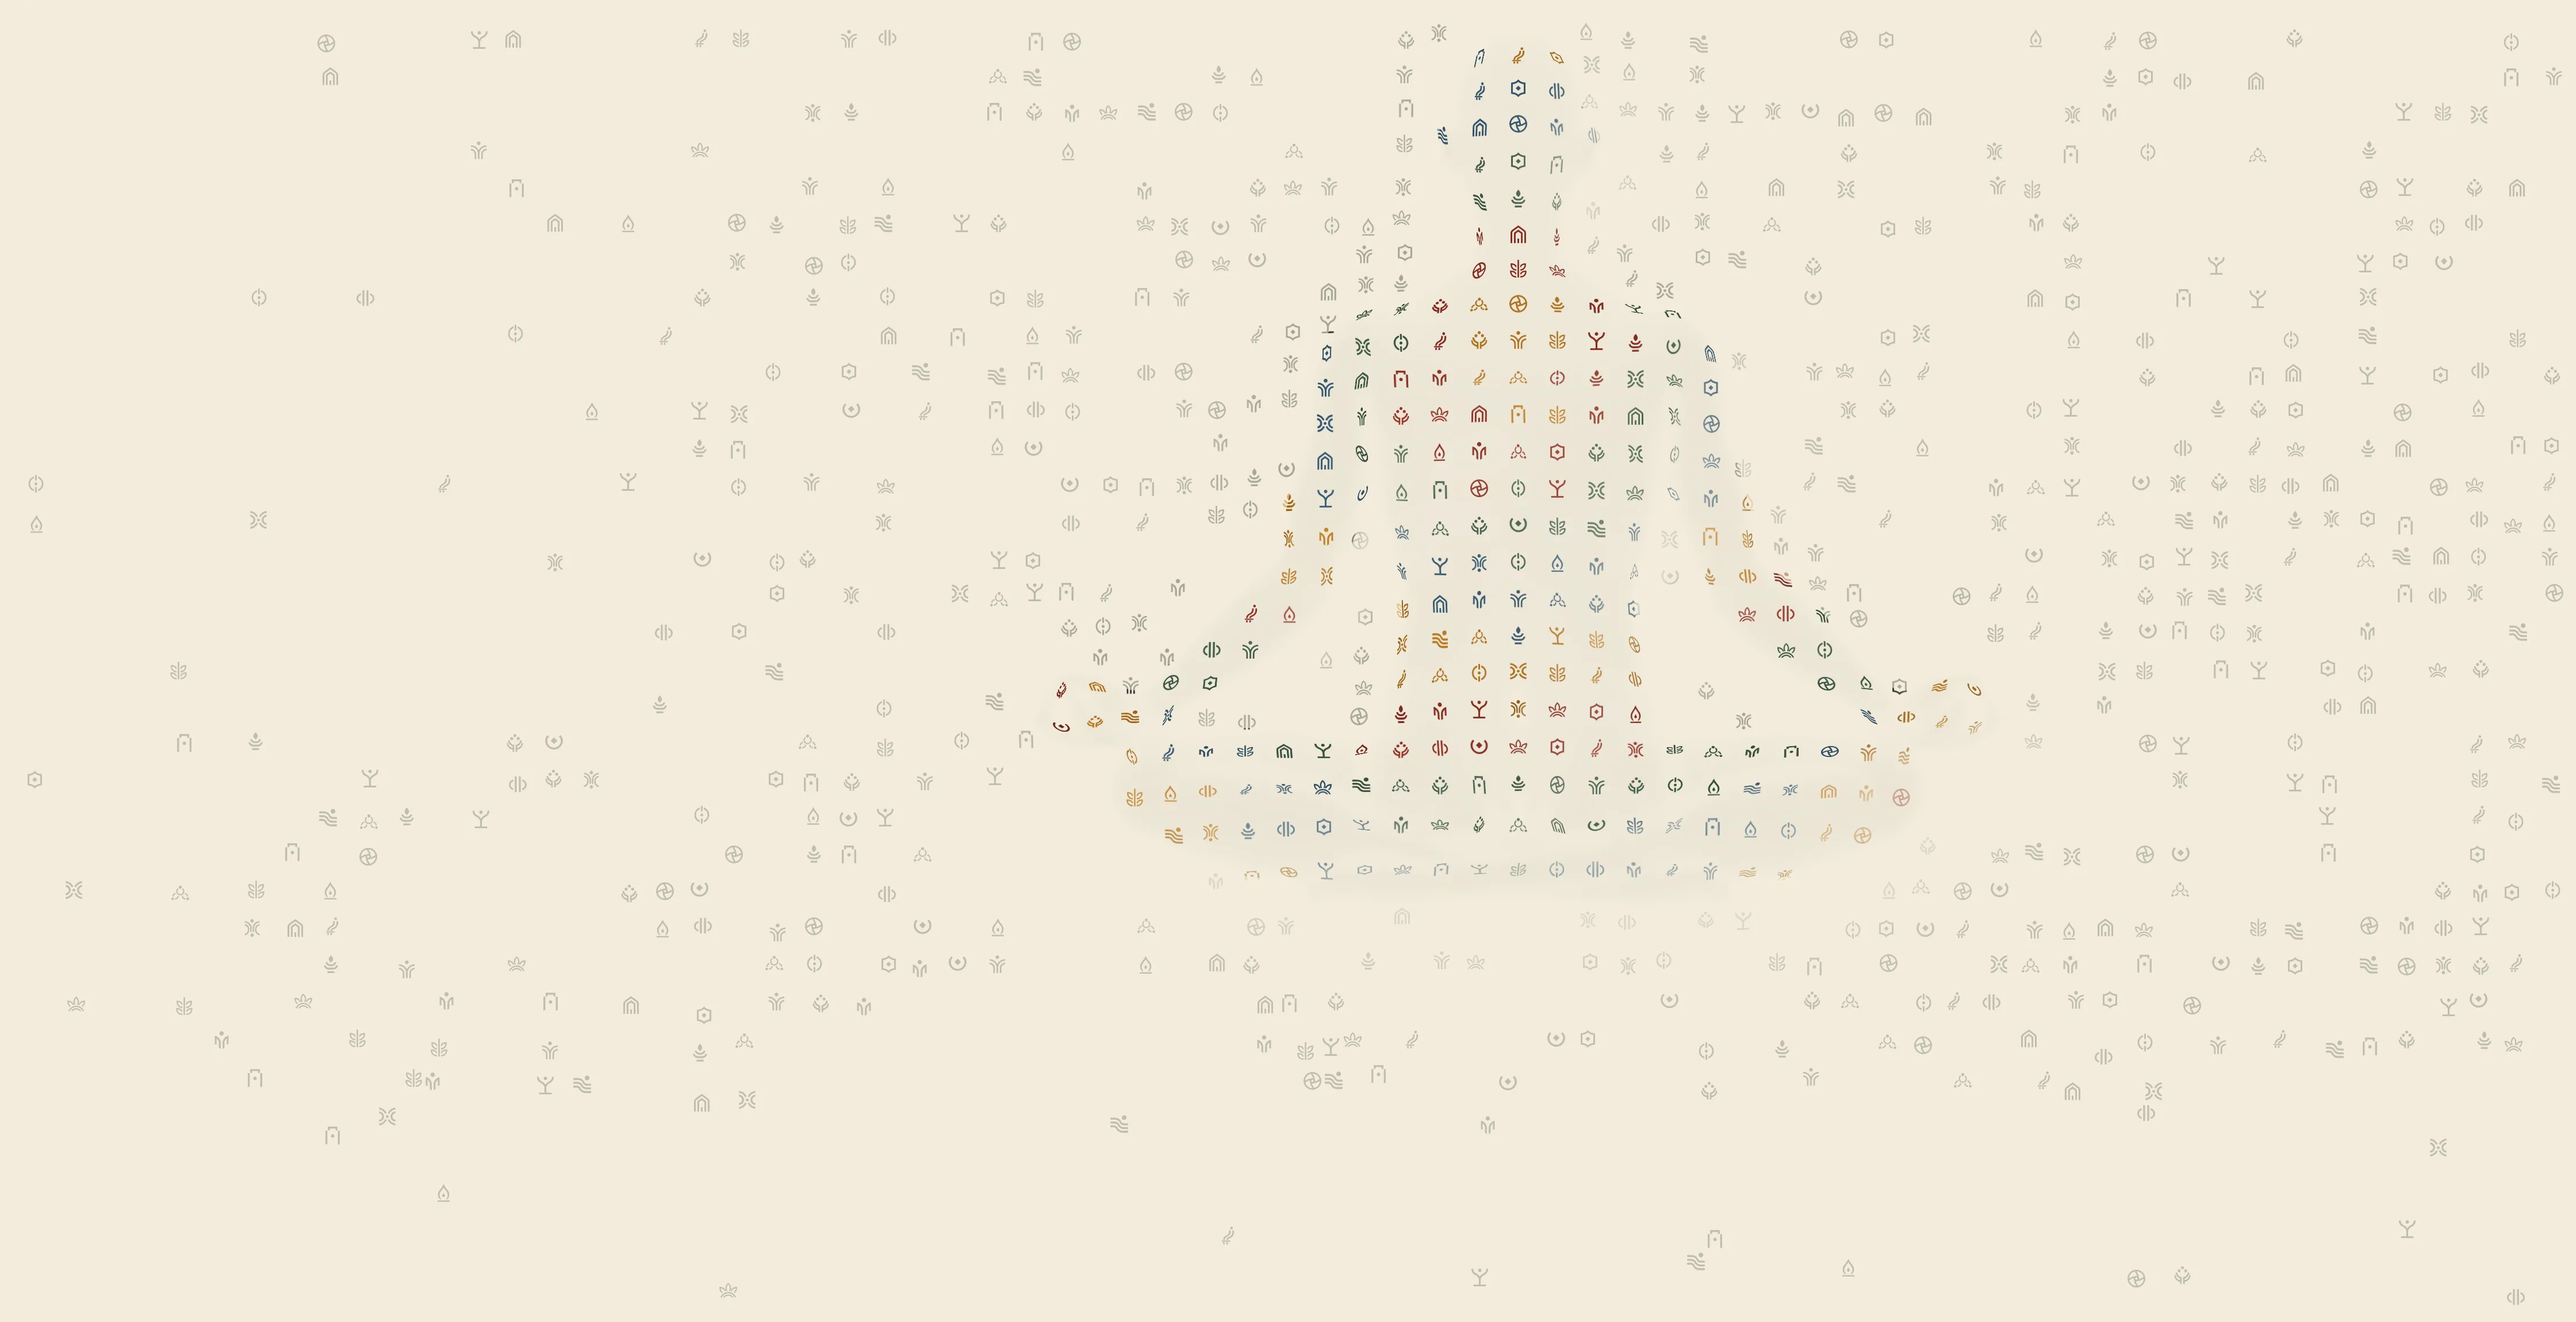
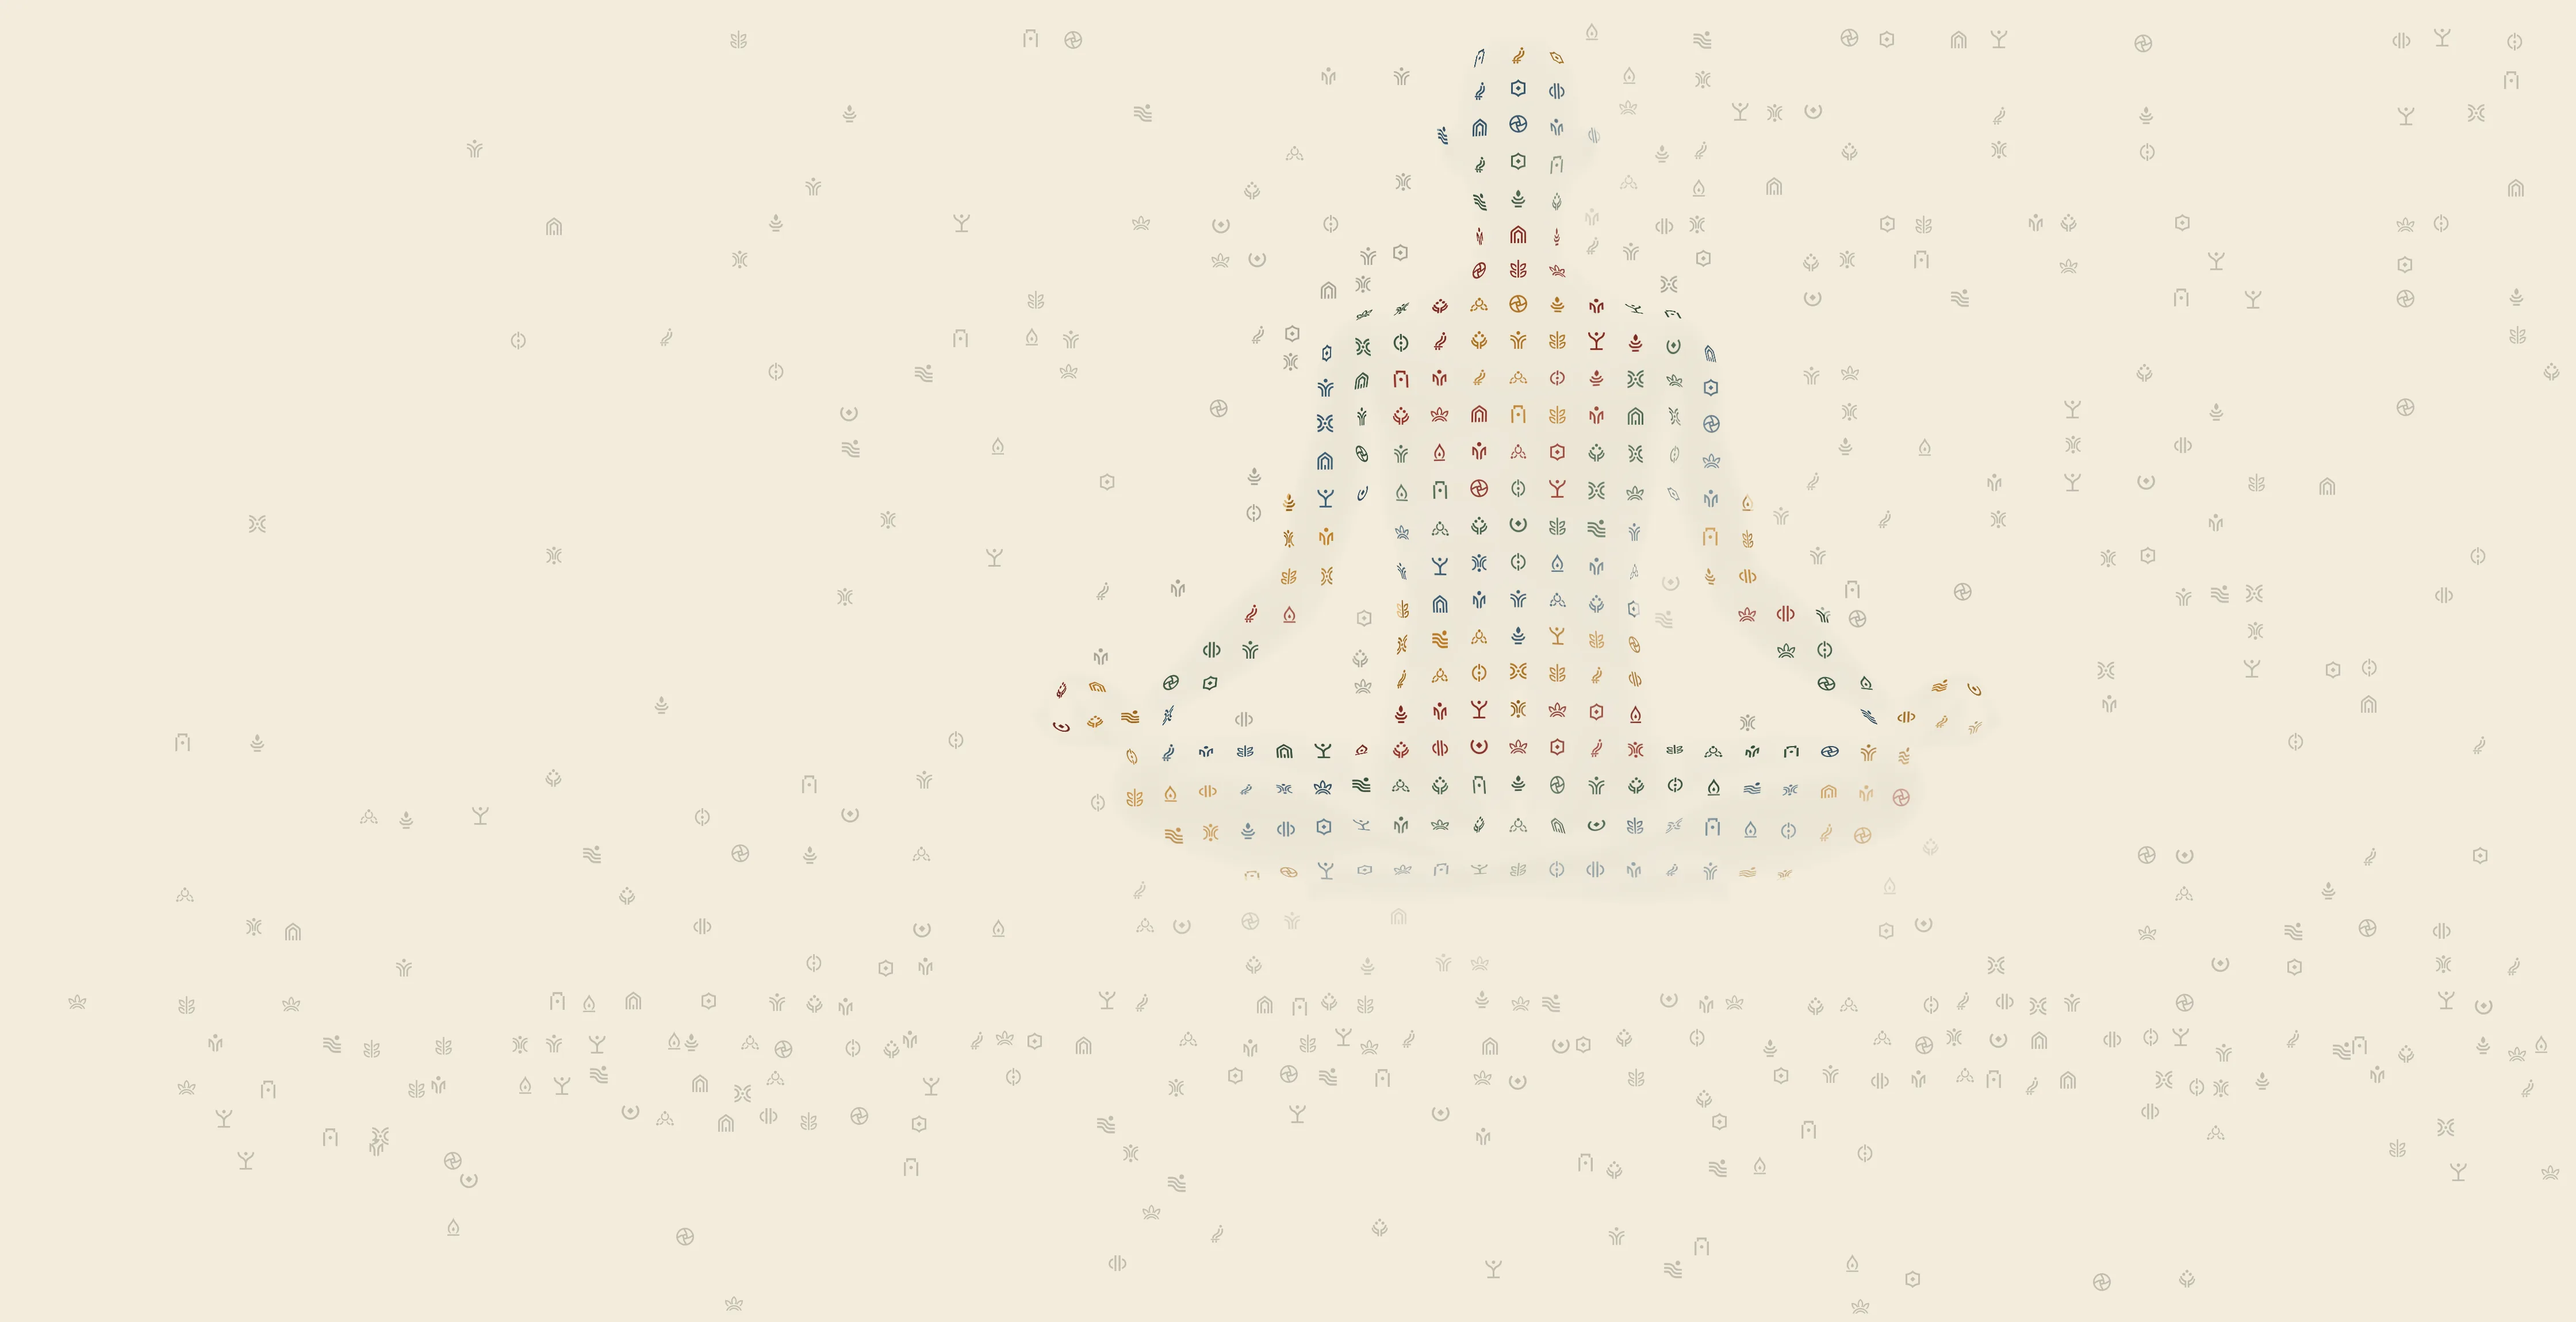
Hero field: left spread low and sparse, fuller and more even spread under the rectangle
Claude-Session: https://claude.ai/code/session_01Faxypstm6H8yAswypDCHBa

diff --git a/scripts/hero-glyph-field.py b/scripts/hero-glyph-field.py
@@ -186,22 +186,24 @@ def fragment(x,y,u):
 # SPARSE_KEEP, thinning to the left of the old edge line (SIDE_OUT) and downwards below the rectangle (SPARSE_FALL to
 # SPARSE_END). Above SOLID_BOTTOM they only drift left and down, by under 6 units, so none crosses into the rectangle.
 SOLID_BOTTOM=853.3        # the gap between the glyph rows at y 837.2 and 869.4
-SPARSE_KEEP=0.42
-SIDE_OUT=260
-SPARSE_FALL=160
-SPARSE_END=0.04
+SPARSE_KEEP=0.7          # below the rectangle, at its edge
+SIDE_OUT=200
+SPARSE_FALL=200
+SPARSE_END=0.06
+LEFT_KEEP=0.2            # left of the cut, above the bottom edge (Nov 19: kept low and sparse)
+SPARSE_CLUMP=0.05        # less clumping than the old break-up: no big empty patches
 _rk=np.random.default_rng(11)
 def sparse(x,y,u):
     # -> (keep, dx, dy, loose) for a field glyph of the sparse layer landing at (x,y); loose (0..1) drives its colour
     i,k=min(max(P(y),0),H_-1),min(max(P(x+DX),0),W_-1); e=dE[i,k]
     hx=float(np.exp(min(e,0)/SIDE_OUT))
     t=ss((y-SOLID_BOTTOM)/SPARSE_FALL) if y>SOLID_BOTTOM else 0.0
-    p=(SPARSE_KEEP*(1-t)+SPARSE_END*t)*hx
-    p=float(np.clip(p+CLUMP*clump(x,y)*min(p,1-p)*2,0,1))
+    p=(LEFT_KEEP if y<SOLID_BOTTOM else SPARSE_KEEP*(1-t)+SPARSE_END*t)*hx
+    p=float(np.clip(p+SPARSE_CLUMP*clump(x,y)*min(p,1-p)*2,0,1))
     if u>p: return False,0.0,0.0,0.0
     if y<SOLID_BOTTOM: dx=-min(abs(_rk.normal(0,3)),6); dy=min(abs(_rk.normal(0,3)),6)
     else: dx=_rk.normal(0,4+8*t); dy=abs(_rk.normal(0,4+14*t))
-    lo=max(ss((y-776)/230), 1-hx, ss((y-600)/250) if e<0 else 0.0)
+    lo=max(ss((y-(SOLID_BOTTOM-40))/80), 1-hx, ss((y-600)/250) if e<0 else 0.0)   # most glyphs below the edge are coloured
     return True,dx,dy,lo
 rng=np.random.default_rng(SEED); np.random.seed(3)
 COL={'marigold':(217,143,43),'clay':(166,58,46),'sage':(76,107,84),'blue':(69,107,134)}; PC=['marigold','clay','sage','blue']

diff --git a/docs/edit-ledger.md b/docs/edit-ledger.md
@@ -833,3 +833,9 @@ commits. Hashes below were backfilled for commits made before the ledger existed
   - Phones show the solid layer only; they only show the field down to y 820, so nothing changes there.
 - Provisional: committed locally; waiting for Dat's go-ahead to push.
 - Why: Dat, Nov 19 ("make the field solid within the boundaries of the lines I've drawn ... make the glyph spread sparse below and to the left of it").
+
+### 2026-11-19 · Hero field: left spread kept low, fuller spread under the rectangle (local, not pushed) (`home-04-lanes` only)
+- **Left.** The spread left of the cut now starts only three rows above the rectangle's bottom edge (`hero-field-sparse.svg`, from y 756.7). It is sparser there (`LEFT_KEEP` 0.2) and thins out sooner to the left (`SIDE_OUT` 200).
+- **Below the rectangle.** The first rows under the edge are fuller (`SPARSE_KEEP` 0.7), the spread thins over 200 units, and it is much more even (`SPARSE_CLUMP` 0.05), so the green column no longer has a big empty patch. Most glyphs below the edge take their column's colour.
+- Provisional: committed locally; waiting for Dat's go-ahead to push.
+- Why: Dat, Nov 19 ("too much spread on the left, keep it low and sparse ... not enough spread for green, theres a big untouched area").
